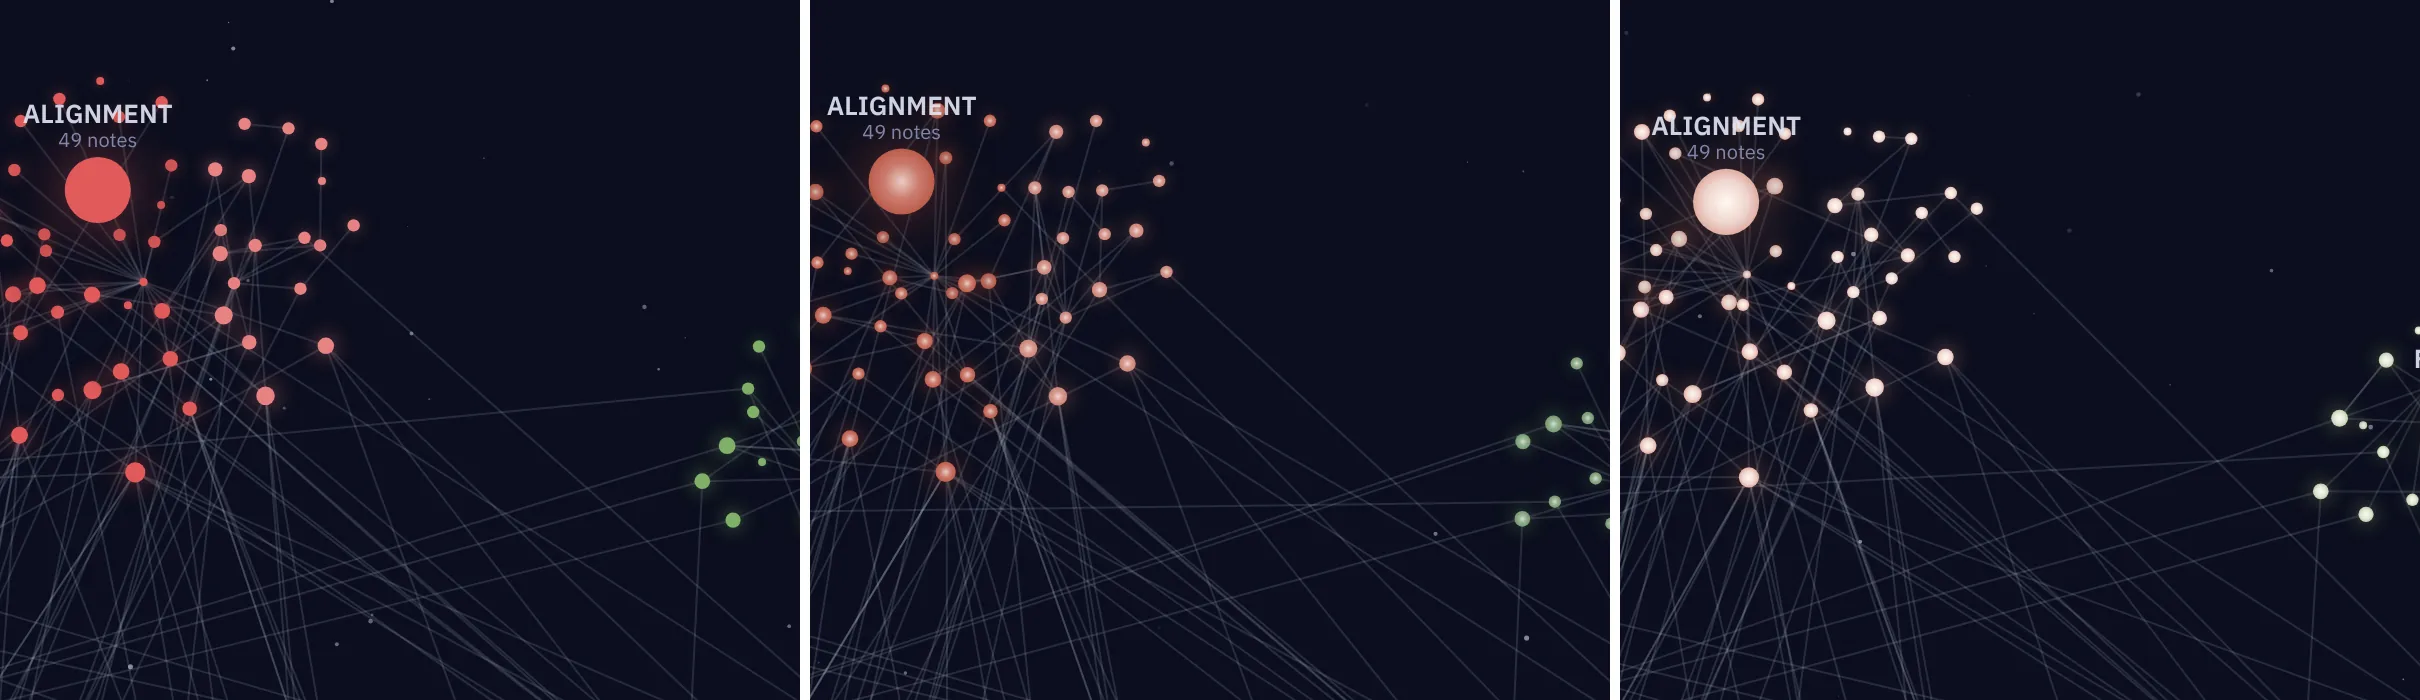
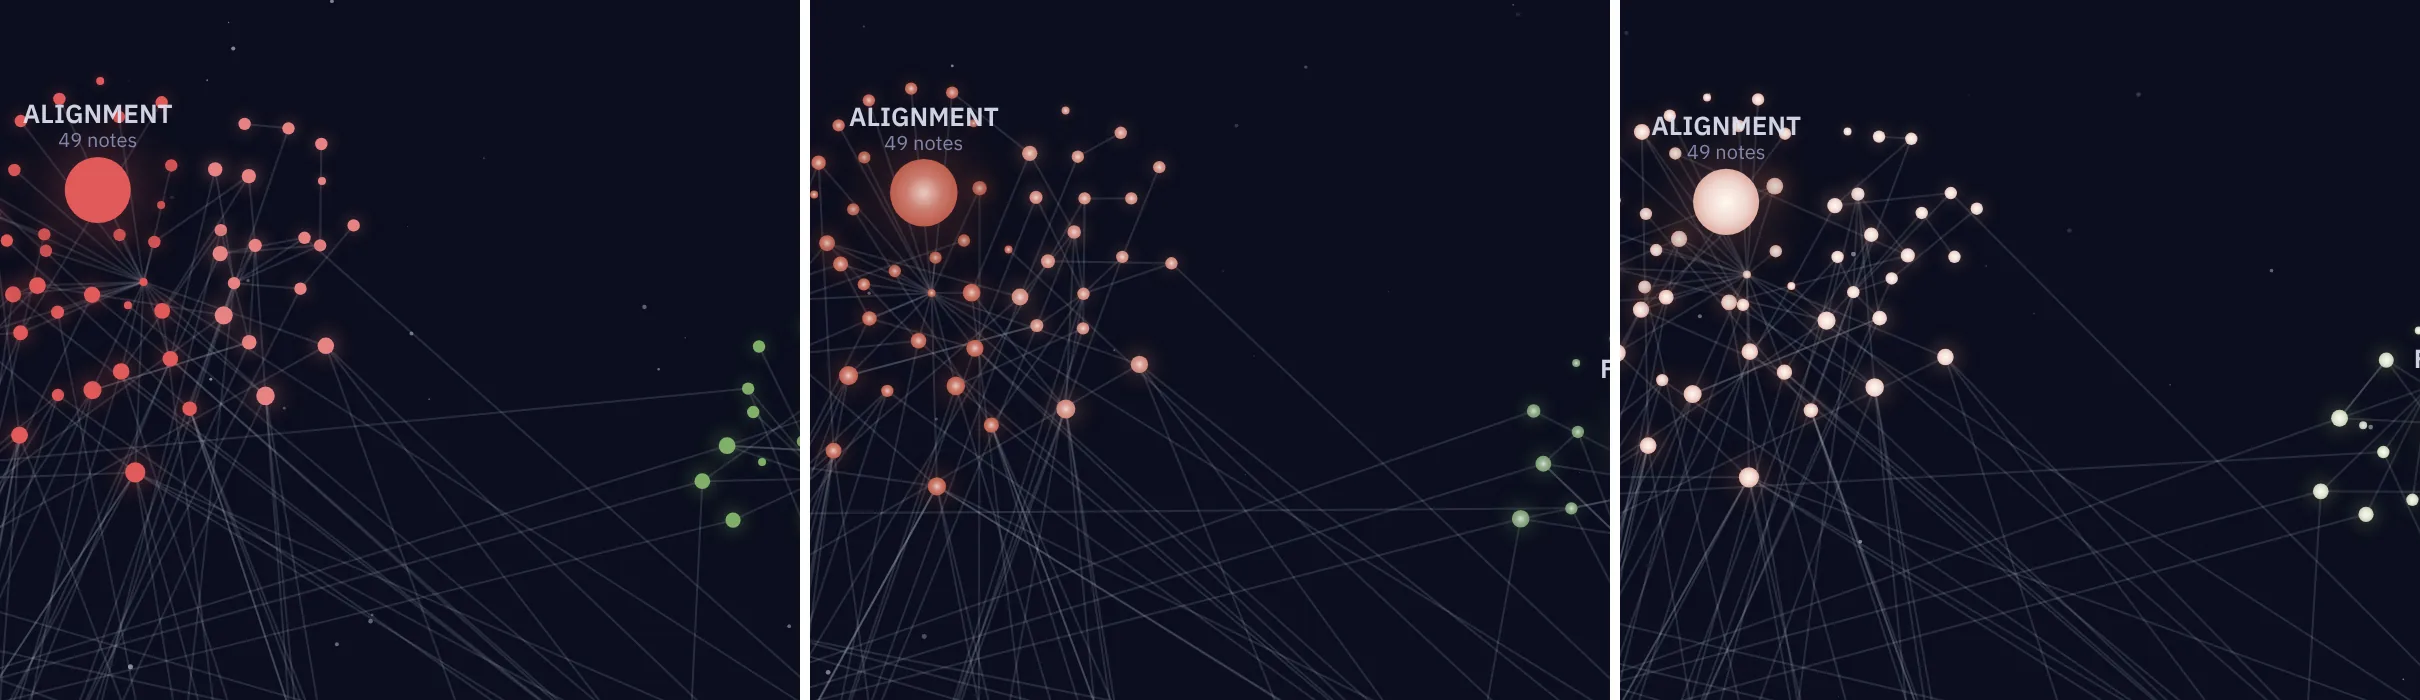
docs(design): pearls variant and a day observatory view in the palette renders
render.mjs now patches the pre-experiment vaultbrain.js so variants 0-5
still reproduce after pearls shipped, renders one variant on request, and
covers the light-theme observatory.

diff --git a/design/brain-palette/sheets.py b/design/brain-palette/sheets.py
@@ -4,7 +4,7 @@ from PIL import Image, ImageDraw
 
 HERE = Path(__file__).parent
 R = HERE / "renders"
-V = ["0-current", "1-pigment", "2-starlight", "3-pigment-core", "4-gilded", "5-ember"]
+V = ["0-current", "1-pigment", "2-starlight", "3-pigment-core", "4-gilded", "5-ember", "6-pearls"]
 
 
 def save(img, name):
@@ -33,6 +33,21 @@ def grid(views, name, h):
 
 grid(["phone-home", "side-dark", "side-light"], "sheet-panels.webp", 420)
 grid(["obs-dark"], "sheet-observatory.webp", 380)
+
+# pearls, as shipped, on every sky: rotunda, observatory night and day, side panel by day
+cells = [("phone-home-6-pearls.png", None), ("obs-dark-6-pearls.png", (1500, 100, 2300, 800)),
+         ("obs-light-6-pearls.png", (1500, 100, 2300, 800)), ("side-light-6-pearls.png", None)]
+ims = []
+for f, box in cells:
+    i = Image.open(R / f).convert("RGB")
+    i = i.crop(box) if box else i
+    ims.append(i.resize((int(i.width * 700 / i.height), 700)))
+s = Image.new("RGB", (sum(i.width + 10 for i in ims) - 10, 700), "white")
+x = 0
+for i in ims:
+    s.paste(i, (x, 0))
+    x += i.width + 10
+save(s, "pearls.webp")
 
 # close-up: one room in the observatory, current vs lit core vs ember
 zoom = [Image.open(R / f"obs-dark-{v}.png").convert("RGB").crop((1500, 100, 2300, 800)) for v in ["0-current", "3-pigment-core", "5-ember"]]

diff --git a/design/brain-palette/README.md b/design/brain-palette/README.md
@@ -22,6 +22,7 @@ which is where the muted palette below comes from.
 | 3-pigment-core | mineral pigments | lit core |
 | 4-gilded | hues pulled toward the site's gold | lit core |
 | 5-ember | gilded | near-white star, hue only in the halo |
+| 6-pearls | mineral pigments | pearl: highlight up-left, pigment body, darker rim — **shipped** |
 
 ## Findings
 
@@ -33,8 +34,15 @@ which is where the muted palette below comes from.
 - **Day theme:** a lit core looks hollow on the pale sky (light column of 2 and
   3). Day wants flat pigment discs (1).
 
+Variant 3 was picked, then grew into **pearls** (6): moving the highlight
+off-centre and darkening the rim gives each star volume, and the rim is what
+lets one drawing hold on the pale day sky too, so pearls are drawn on every
+sky, the rotunda and both observatory themes included.
+
 ## Files
 
+- `pearls.webp` — pearls as shipped: rotunda, observatory night and day, side
+  panel by day.
 - `rotunda-current-vs-ember.webp` — the phone home brain, current vs ember.
 - `sheet-panels.webp` — every variant on the phone rotunda and the side panel,
   dark and light.
@@ -47,9 +55,11 @@ With the dev server on port 8050, from the repo root:
 
 ```sh
 npm i --no-save playwright-core
-node design/brain-palette/render.mjs   # writes renders/ (gitignored)
+node design/brain-palette/render.mjs [variant ...]   # writes renders/ (gitignored)
 python3 design/brain-palette/sheets.py # rebuilds the .webp sheets
 ```
 
 `render.mjs` rewrites `vaultbrain.js` in flight for each variant, so the repo
-source is never touched; add a variant by adding an entry to `VARIANTS`.
+source is never touched. Variants 0–5 patch the file as it stood before any of
+them shipped (commit `7589b1f1`); `6-pearls` renders the working tree as is.
+Add a variant by adding an entry to `VARIANTS`.
